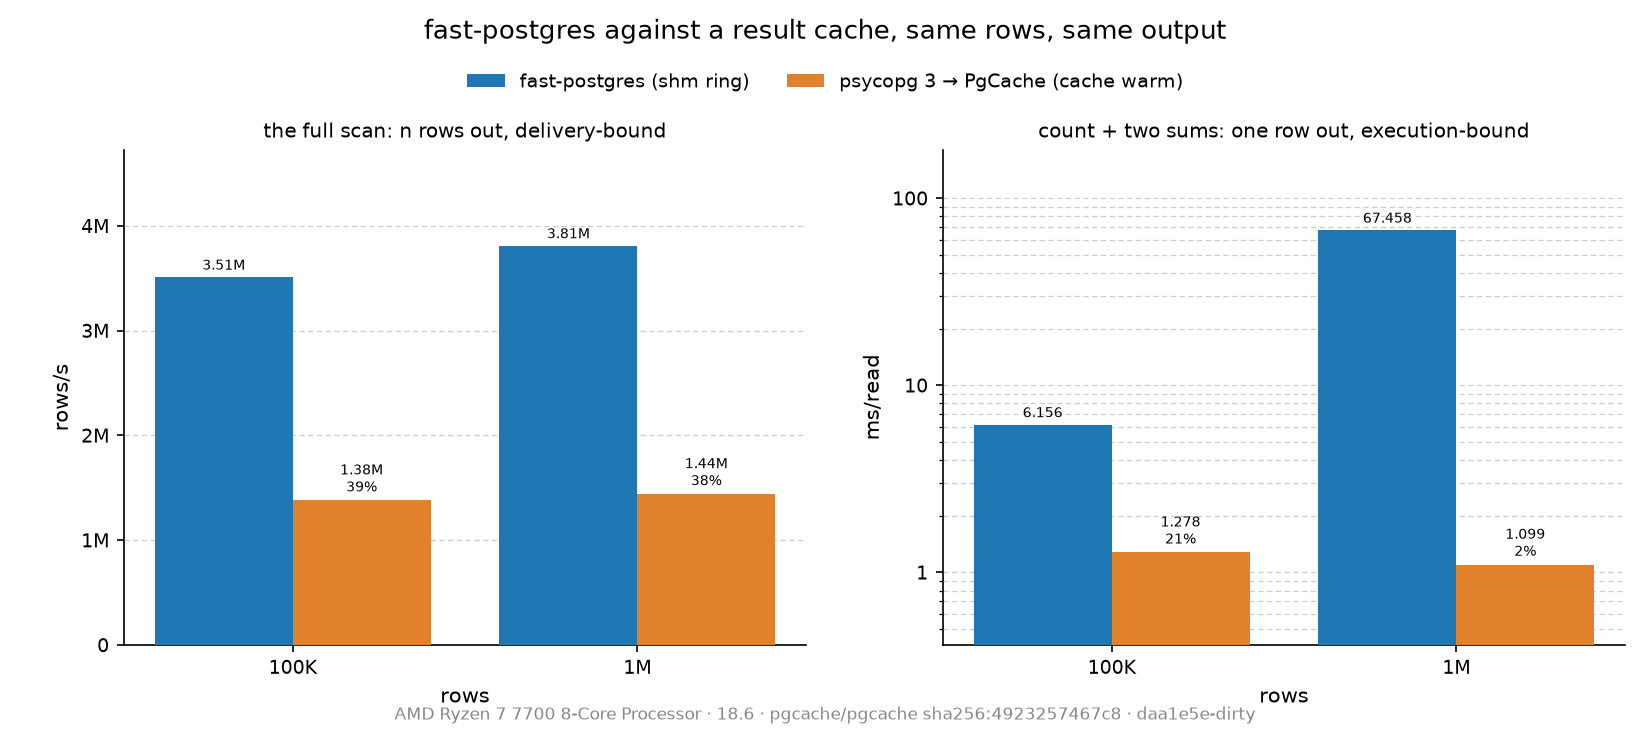
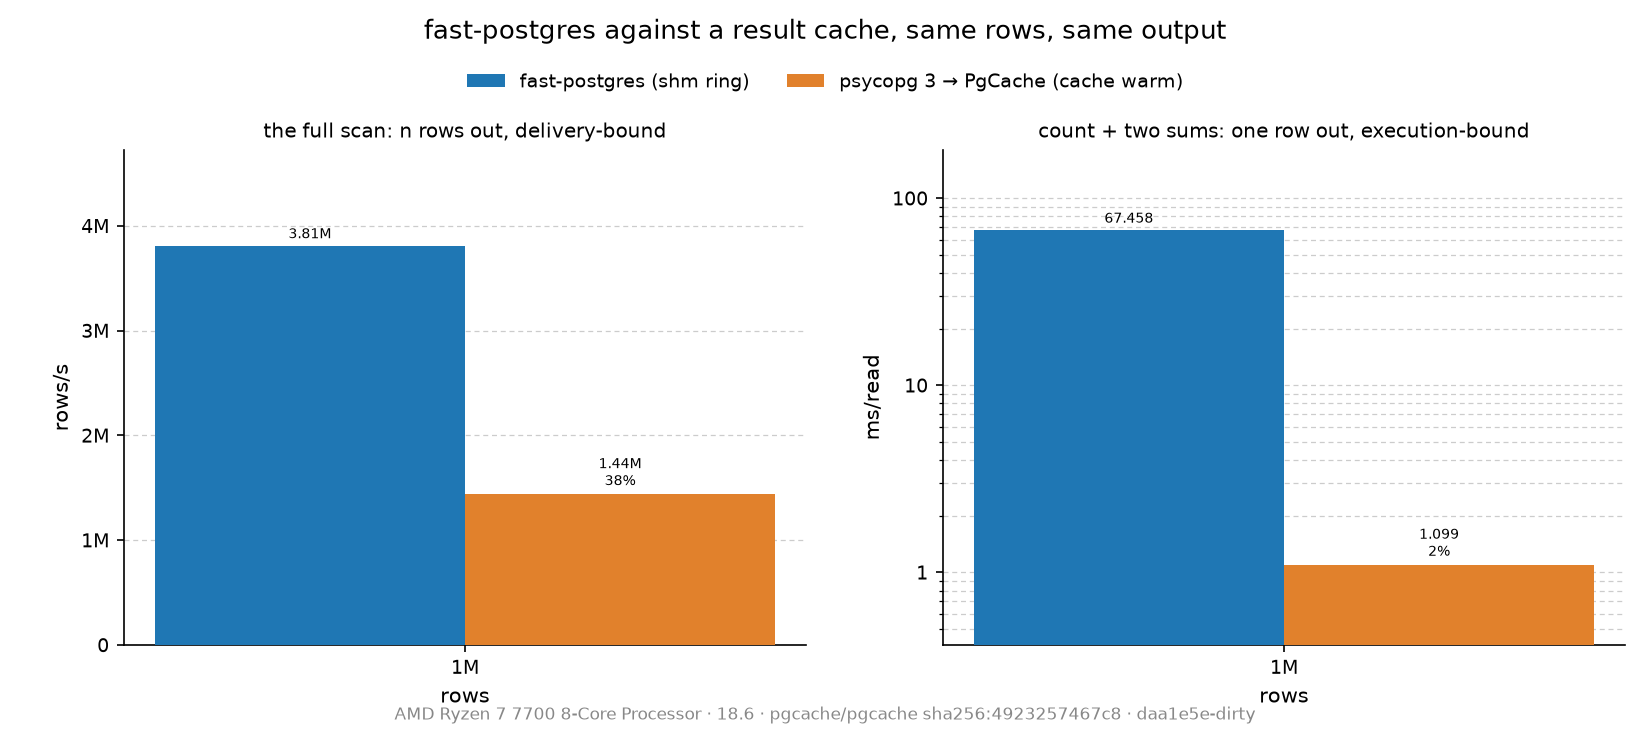
bench: the bar charts show the largest size only
Where a figure repeated the same relation at several row counts, one group says
it: the ADBC comparison draws the biggest load in the log (10M) and the result
cache draws its biggest size (1M), each still a bar pair per panel. The smaller
cells stay in the records; only the drawing is narrowed.

The before/after path narrows the same way, and a single-load pair is labelled
by player name instead of "load\nname", since the load no longer varies.

Changed region(s): [[0.5873, 0.276, 0.9273, 0.8893], [0.0927, 0.3067, 0.4327, 0.92]]

diff --git a/bench/charts/adbc.py b/bench/charts/adbc.py
@@ -6,8 +6,9 @@ measures:
 
     zerocopy-read.png                 the zero-copy paths, summed in place
 
-Each bar carries its rate; the accent bar (fast-postgres) also carries its
-improvement over the rival it is measured against.
+One load, the largest the log has: the smaller ones carry the same relation,
+so a single bar pair says it without repeating it. Each bar carries its rate;
+the accent bar (fast-postgres) also carries the rival's share of it.
 
 `--compare LOG` also prints the before/after deltas for the same loads and
 writes those sections again, each load as a before/after bar pair:
@@ -179,6 +180,14 @@ def bars(ax, data, series, colors, labels, scale, delta_vs=0):
     return handles
 
 
+def largest(data):
+    """The biggest load only: the smaller sizes carry the same relation."""
+    if not data:
+        return data
+    top = max(data, key=num_rows)
+    return {top: data[top]}
+
+
 def figure(section, data, series, colors, labels, title, headline, footer, scale, delta_vs=0):
     fig, ax = plt.subplots(figsize=(7.8, 5.9))
     handles = bars(ax, data, series, colors, labels, scale, delta_vs)
@@ -195,7 +204,7 @@ def figure(section, data, series, colors, labels, title, headline, footer, scale
 def save(fig, path, points):
     fig.savefig(path, dpi=150)
     plt.close(fig)
-    print(f"wrote {path}  ({points} loads)")
+    print(f"wrote {path}  ({points} group{'s' if points != 1 else ''})")
 
 
 def skip(path, section):
@@ -212,13 +221,13 @@ def paired(before, after, names):
     """{f'{load}\\n{name}': (before, after)} for the loads both logs ran, so one
     x tick is one bar pair rather than one bar."""
     data = {}
-    for load in sorted(before, key=num_rows):
-        if load not in after:
-            continue
+    loads = sorted((load for load in before if load in after), key=num_rows)
+    for load in loads:
         for i, name in enumerate(names):
             was = before[load][i]
             if was > 0:
-                data[f"{load}\n{name}"] = (was, after[load][i])
+                key = f"{load}\n{name}" if len(loads) > 1 else name
+                data[key] = (was, after[load][i])
     return data
 
 
@@ -243,7 +252,7 @@ def plot_compare(db, da, env, scale, note=""):
         footer += " · " + note
 
     for section, (filename, subtitle) in CHARTS.items():
-        bp, ap = db[section], da[section]
+        bp, ap = largest(db[section]), largest(da[section])
         shared = min([len(v) for v in (*bp.values(), *ap.values())], default=0)
         data = paired(bp, ap, PLAYERS[:shared])
         path = OUT / filename.replace(".png", "-compare.png")
@@ -308,7 +317,7 @@ def plot_drivers(text, env, scale, note=""):
         footer += " · " + note
     for section, (filename, subtitle) in CHARTS.items():
         path = OUT / filename
-        rows = data[section]
+        rows = largest(data[section])
         if not rows:
             skip(path, section)
             continue

diff --git a/bench/charts/cache.py b/bench/charts/cache.py
@@ -1,8 +1,8 @@
 #!/usr/bin/env python3
 """Render fast-postgres vs PgCache from the comparison log.
 
-One image, two panels, two bars per size, because the answer depends on the
-shape of the result:
+One image, two panels, two bars, because the answer depends on the shape of the
+result (the largest size in the log; the smaller one tells the same relation):
 
     left   the full scan, rows/s     delivery-bound: the ring wins, and a cache
                                      hit pays to ship the rows again
@@ -103,7 +103,7 @@ def fmt_ms(v, _pos=None):
 
 
 def bars(ax, data, workload, fmt, ylabel, log=False):
-    sizes = sorted(data)
+    sizes = [max(data)]  # the largest size: the smaller one tells the same relation
     labels = [f"{n // 1000000}M" if n >= 1e6 else f"{n // 1000}K" for n in sizes]
     width = 0.8 / len(SERIES)
     xs = list(range(len(sizes)))

diff --git a/bench/PG-CACHE.md b/bench/PG-CACHE.md
@@ -68,8 +68,9 @@ multiset. The log prints `ok` or `MISMATCH`; the run exits non-zero on a mismatc
 ## The numbers
 
 The chart above has rows/s for the two row-returning workloads and ms/read for
-the aggregate, median of 3 reps (1 above 1M rows), at 100K and 1M rows,
-`bench` shape. The two regimes, in one line each:
+the aggregate at 1M rows (median of 3 reps, `bench` shape) — the largest size,
+since the smaller one tells the same relation; its 100K cells are in the log.
+The two regimes, in one line each:
 
 - **A large result does not want a cache.** A cache hit still ships the cached
   rows from the cache database through the proxy to the client, and the client
